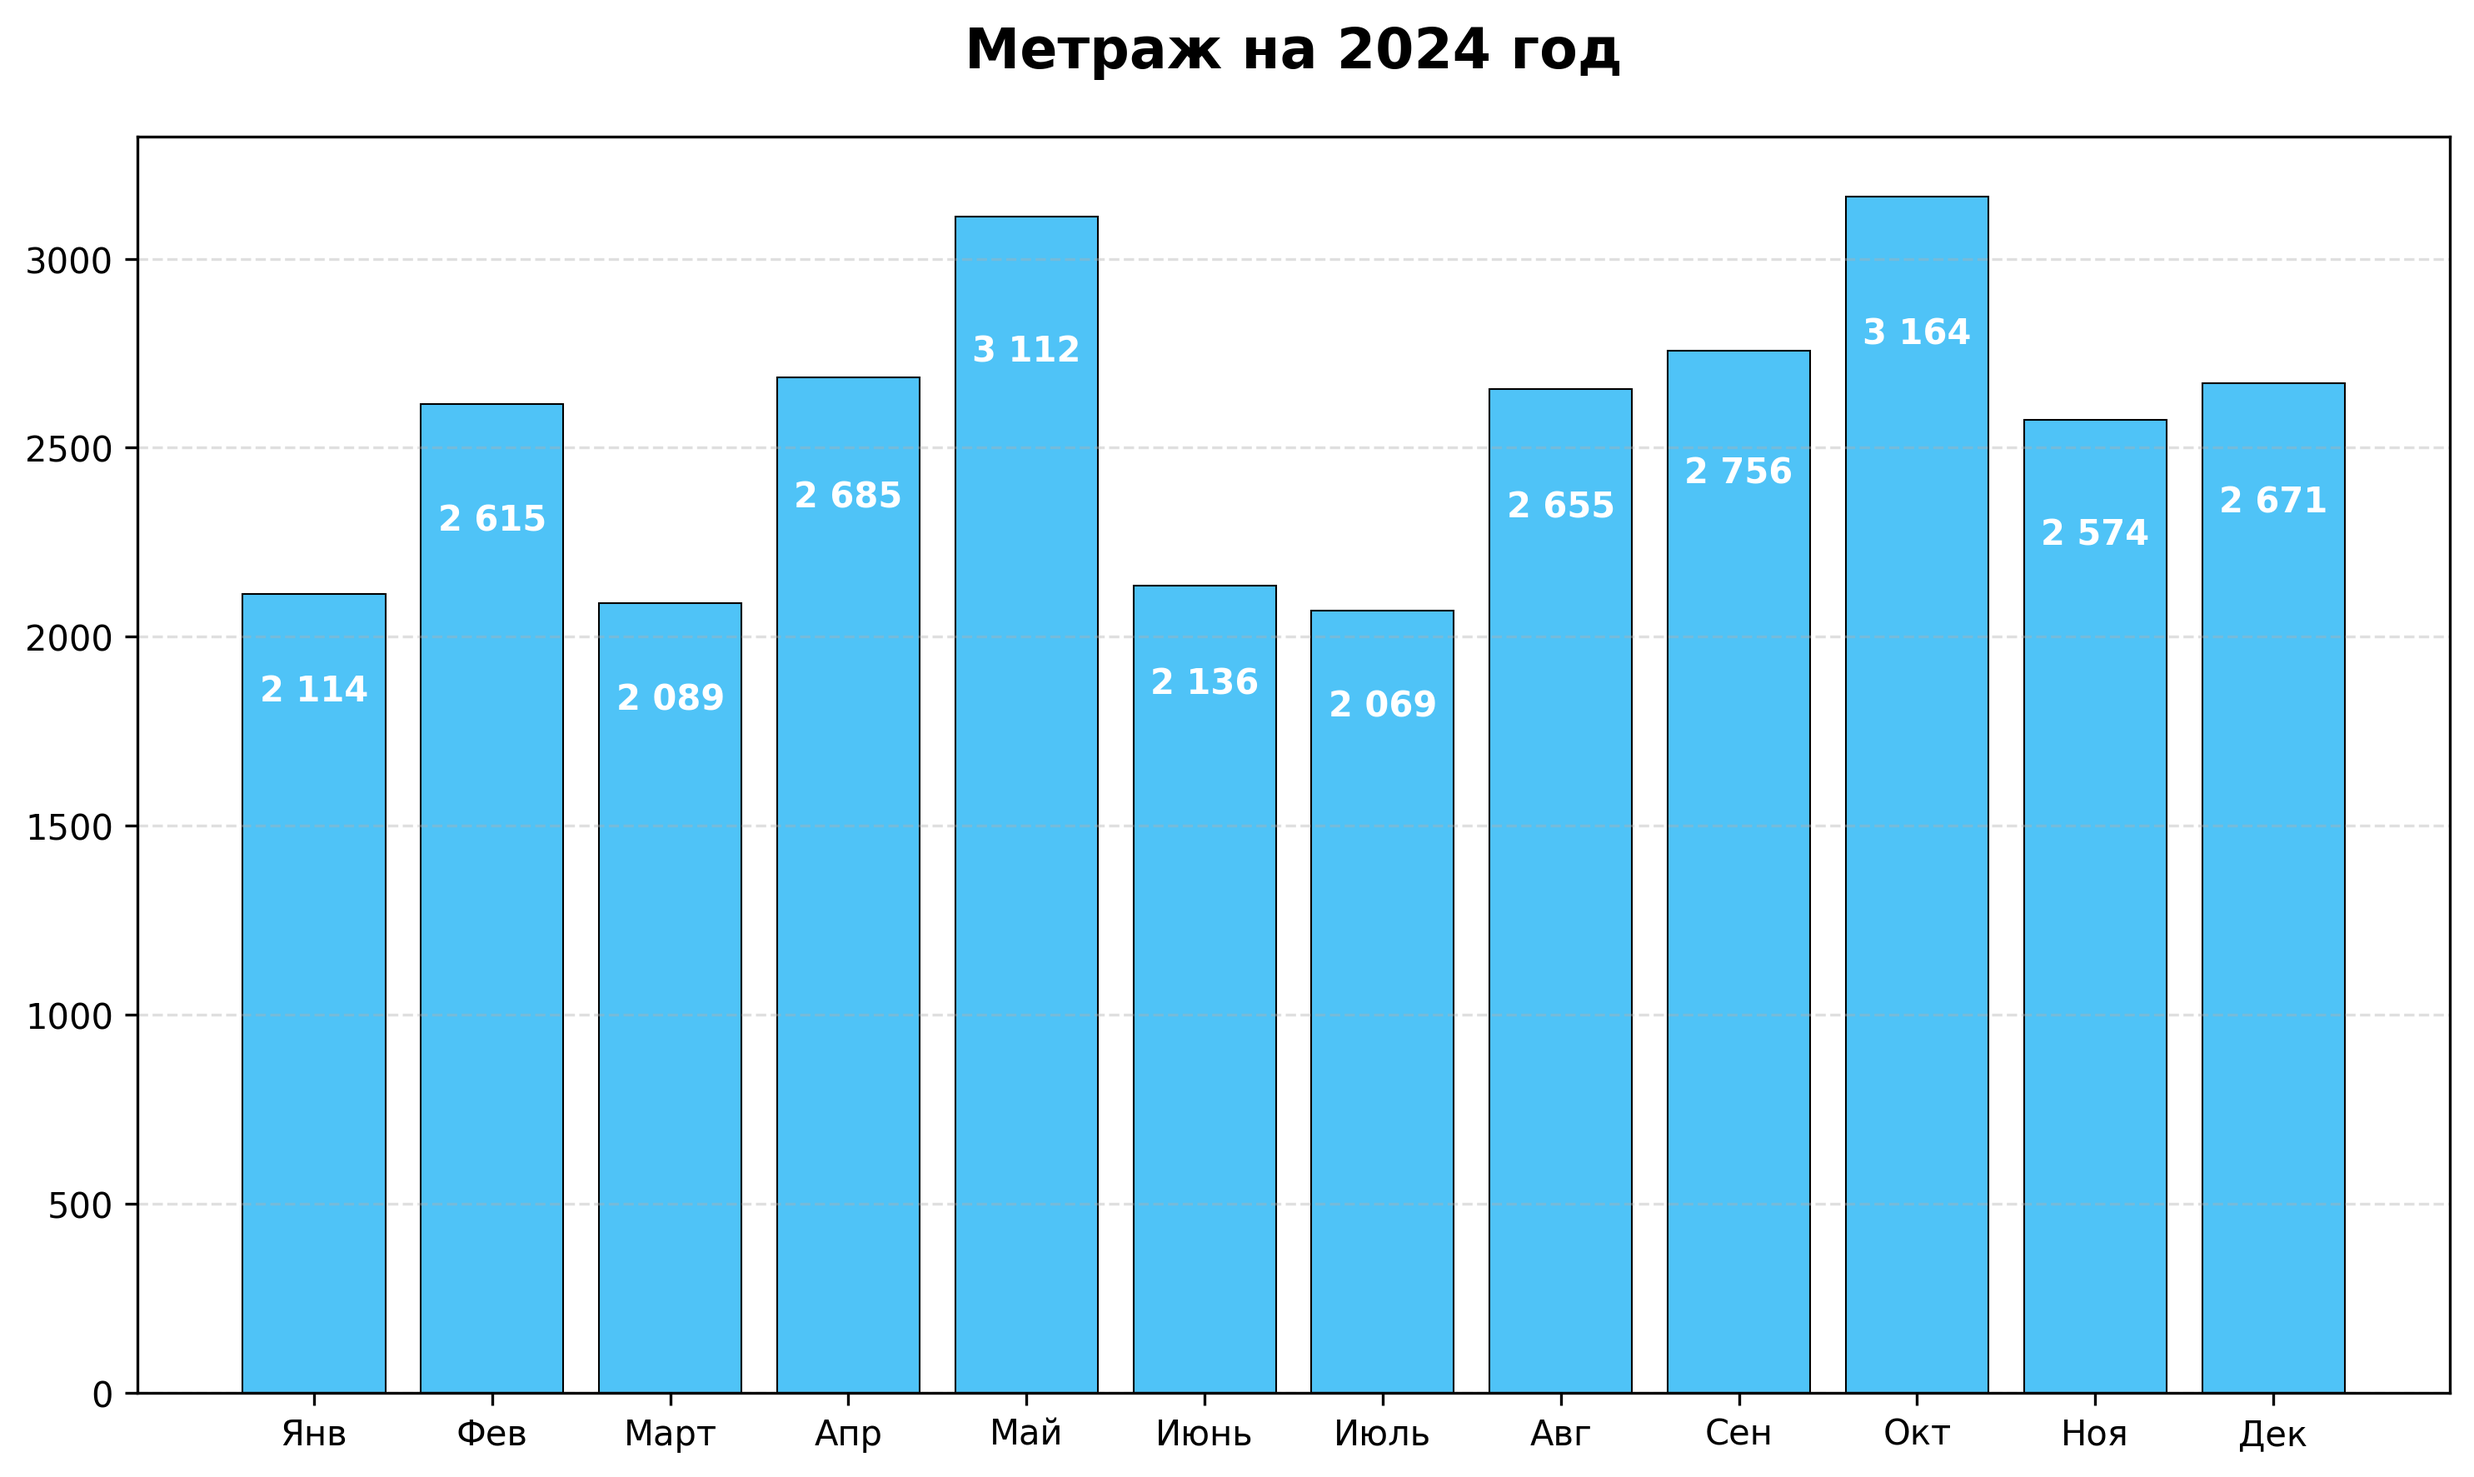
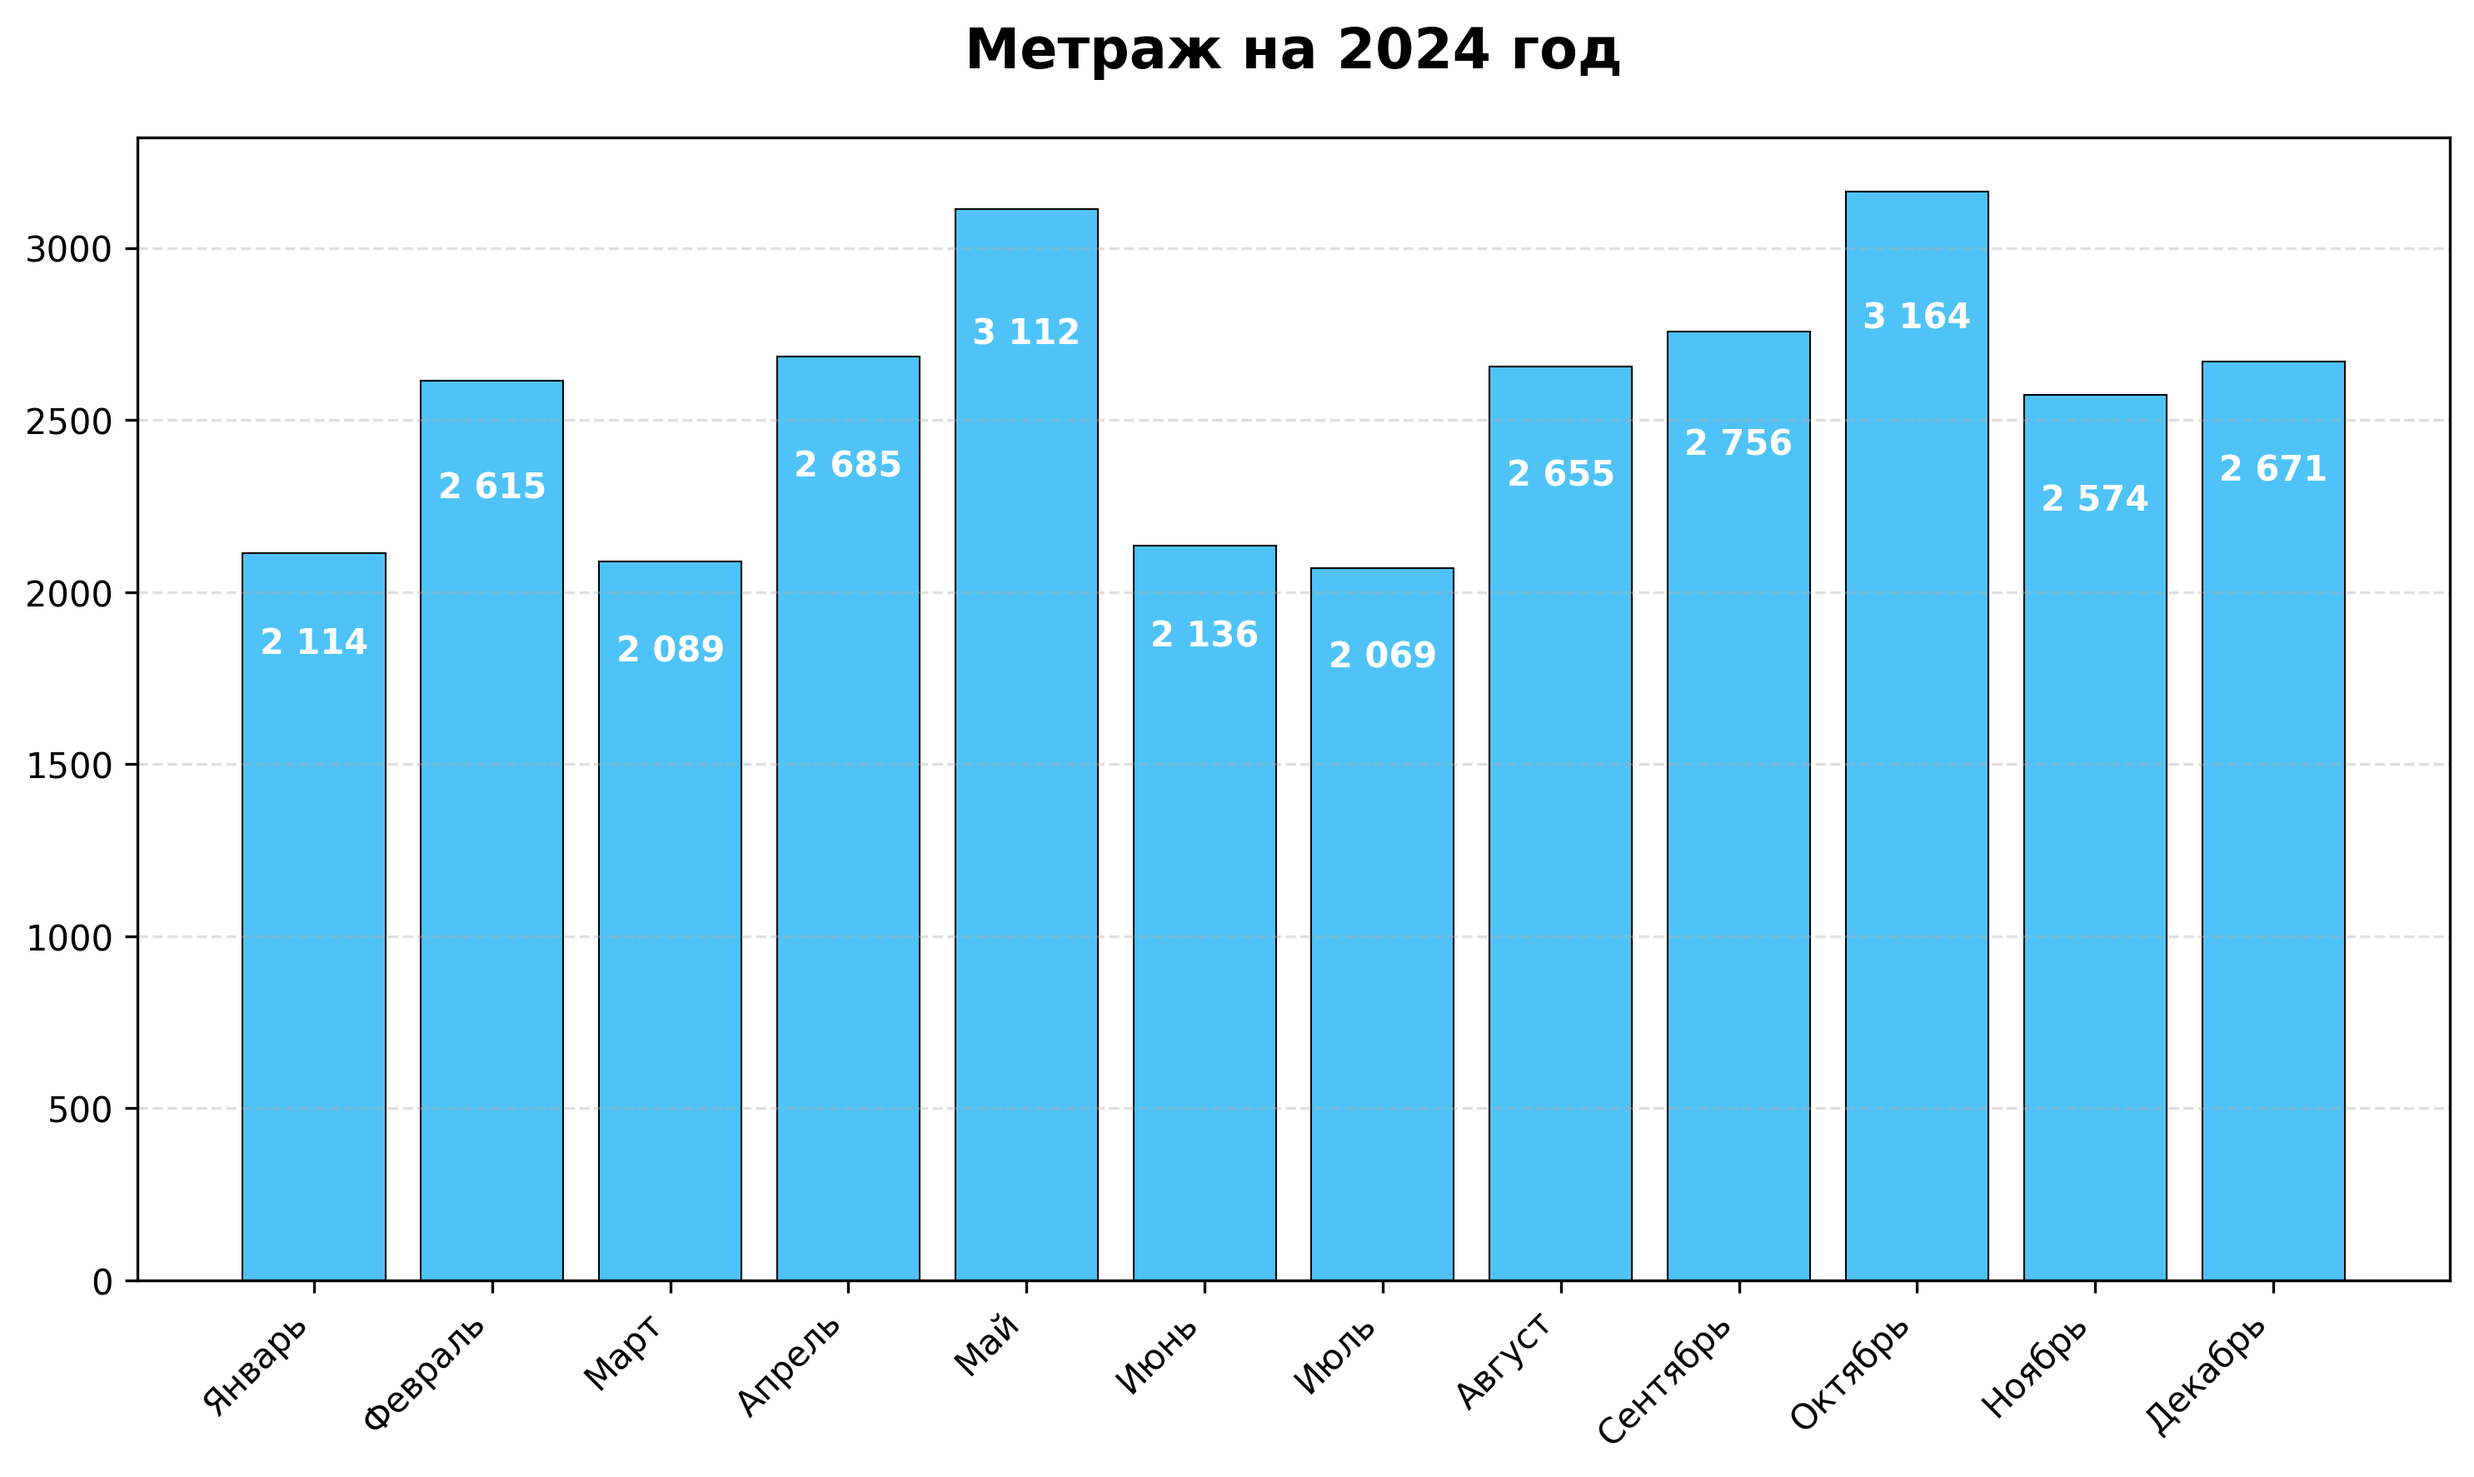
update plotlib_2.py

diff --git a/plotlib_2.py b/plotlib_2.py
@@ -3,7 +3,8 @@ import utils
 
 # Данные
 god = 2024
-months = ['Янв', 'Фев', 'Март', 'Апр', 'Май', 'Июнь', 'Июль', 'Авг', 'Сен', 'Окт', 'Ноя', 'Дек']
+months = ['Январь', 'Февраль', 'Март', 'Апрель', 'Май', 'Июнь', 'Июль',
+          'Август', 'Сентябрь', 'Октябрь', 'Ноябрь', 'Декабрь']
 values = [utils.metraj_year(god=int(str(god)[-2:]), months=i) for i in range(1, 13)]
 
 # График
@@ -37,7 +38,12 @@ for bar, val in zip(bars, values):
 # Оформление
 ax.set_title(f'Метраж на {god} год', fontsize=16, fontweight='bold', pad=20)
 ax.grid(axis='y', linestyle='--', alpha=0.4)
-plt.xticks(rotation=0)
+
+# Поворот меток X, если нужно (для плотных данных)
+plt.xticks(rotation=45, ha='right')
+
+# Автоматическая подгонка, чтобы ничего не обрезалось
 plt.tight_layout()
+
 plt.savefig("sine_plot.png", dpi=300, bbox_inches="tight")
 plt.show()
